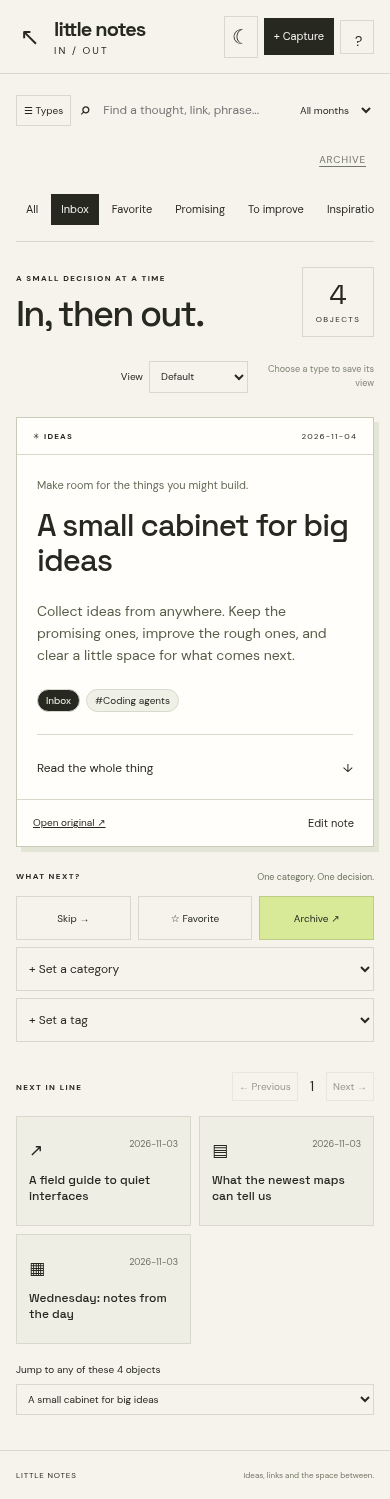
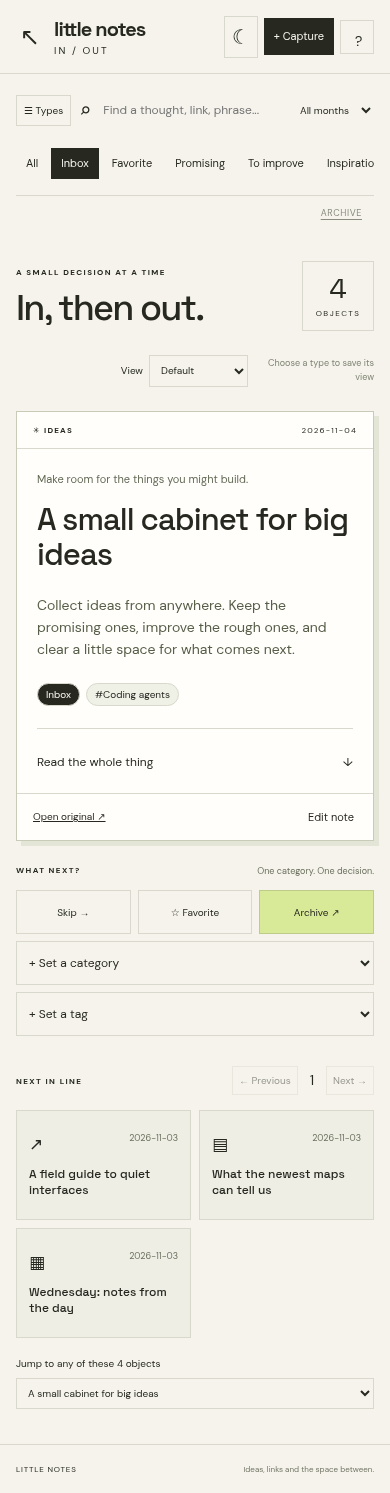
little notes: make Archive smaller and place it below the tabs

diff --git a/ui/src/apps/little-notes/little-notes.css b/ui/src/apps/little-notes/little-notes.css
@@ -1,5 +1,5 @@
 @import url('https://fonts.googleapis.com/css2?family=DM+Sans:wght@400;500;600;700&family=Space+Grotesk:wght@400;500;600;700&display=swap');
-.ln-app{--paper:#f5f3ec;--ink:#272921;--line:#d9d8cc;--green:#d8e997;min-height:100vh;background:var(--paper);color:var(--ink);font:14px/1.5 'DM Sans',sans-serif}.ln-app *{box-sizing:border-box}.ln-app button,.ln-app input,.ln-app select,.ln-app textarea{font:inherit;color:inherit}.ln-app button,.ln-app a,.ln-app select{touch-action:manipulation}.ln-app button{cursor:pointer;border:1px solid var(--line);background:transparent;border-radius:0;padding:10px 14px}.ln-app button:hover{background:#e8eadb}.ln-app button:disabled{cursor:wait;opacity:.45}.ln-app :focus-visible{outline:3px solid #55782b;outline-offset:3px}.ln-app a{color:inherit}.ln-header{height:92px;display:flex;align-items:center;gap:18px;border-bottom:1px solid var(--line);padding:0 36px}.ln-home{font-size:24px!important;border:0!important;padding:4px!important}.ln-brand{font:bold 25px 'Space Grotesk',sans-serif;letter-spacing:-1px}.ln-brand span{font:10px 'DM Sans',sans-serif;letter-spacing:2px;display:block;margin-top:2px}.ln-header-actions{display:flex;align-items:center;gap:16px;margin-left:auto}.ln-header-actions>button{background:var(--ink);color:var(--paper);border-color:var(--ink)}.ln-workspace{display:grid;grid-template-columns:210px minmax(0,1fr);max-width:1600px;margin:auto}.ln-sidebar{border-right:1px solid var(--line);padding:38px 22px;display:flex;flex-direction:column;gap:8px}.ln-eyebrow{font-size:10px;font-weight:700;letter-spacing:1.8px;margin:0 0 16px}.ln-sidebar>button{border:0;display:flex;align-items:center;gap:12px;text-align:left;padding:12px}.ln-sidebar>button.active{background:var(--green)}.ln-sidebar-foot{margin-top:150px;font-size:10px;line-height:1.7}.ln-sidebar-foot strong{font-family:'Space Grotesk',sans-serif;letter-spacing:.7px}.ln-sidebar-foot p{color:#6b6e60}.ln-main{min-width:0;padding:30px 44px 60px;max-width:1280px}.ln-toolbar{display:flex;align-items:center;gap:18px}.ln-search{display:flex;align-items:center;gap:12px;flex:1}.ln-search>span{font-size:26px}.ln-search input{border:0;background:transparent;width:100%;padding:10px 0;outline-offset:1px!important}.ln-toolbar select{background:transparent;border:0;max-width:160px;font-size:12px}.ln-archive-row{display:flex;justify-content:flex-end;margin:8px 0 -6px}.ln-archive-row button{border:0;font-size:10px;letter-spacing:.8px;text-transform:uppercase;color:#73766a;padding:6px 8px;min-height:44px;text-decoration:underline;text-underline-offset:3px}.ln-archive-row button.active{color:var(--ink);font-weight:700}.ln-theme-dark .ln-archive-row button{color:#b2bda7}.ln-theme-dark .ln-archive-row button.active{color:#e6e9df}.ln-tabs{display:flex;gap:3px;overflow:auto;padding:18px 0 20px;border-bottom:1px solid var(--line);scrollbar-width:thin}.ln-tabs button{white-space:nowrap;border:0;font-size:12px;padding:8px 12px}.ln-tabs button.active{background:var(--ink);color:var(--paper)}.ln-tabs select{max-width:140px;background:transparent;border:0;font-size:12px}.ln-heading{display:flex;justify-content:space-between;align-items:center;padding:32px 0 24px}.ln-heading h1{font:500 clamp(32px,4vw,55px)/1 'Space Grotesk',sans-serif;letter-spacing:-2.2px;margin:0;overflow-wrap:anywhere}.ln-heading .ln-eyebrow{margin-bottom:12px}.ln-count{font:36px/1 'Space Grotesk',sans-serif;border:1px solid var(--line);padding:15px;min-width:94px;text-align:center}.ln-count small{display:block;font:9px 'DM Sans',sans-serif;text-transform:uppercase;letter-spacing:1.5px;margin-top:6px}.ln-stage{background:#fffefa;border:1px solid #c9cbb9;box-shadow:5px 5px 0 #e3e5d7}.ln-card-top{display:flex;justify-content:space-between;gap:16px;padding:14px 26px;border-bottom:1px solid var(--line);font-size:10px;text-transform:uppercase;letter-spacing:1.2px}.ln-card-top>span:first-child{font-weight:700}.ln-card-body{padding:32px 38px 18px;max-width:900px}.ln-kicker{font:12px 'DM Sans',sans-serif;color:#646b57;margin:0 0 16px}.ln-card-body h2{font:500 clamp(29px,3.4vw,48px)/1.13 'Space Grotesk',sans-serif;letter-spacing:-1.7px;margin:0 0 22px;overflow-wrap:anywhere}.ln-summary{font-size:17px;line-height:1.6;max-width:740px;color:#575e49}.ln-card-tags{display:flex;gap:6px;flex-wrap:wrap;margin:22px 0}.ln-card-tags button{font-size:10px;padding:3px 8px;border-radius:20px;background:#eff1e7}
+.ln-app{--paper:#f5f3ec;--ink:#272921;--line:#d9d8cc;--green:#d8e997;min-height:100vh;background:var(--paper);color:var(--ink);font:14px/1.5 'DM Sans',sans-serif}.ln-app *{box-sizing:border-box}.ln-app button,.ln-app input,.ln-app select,.ln-app textarea{font:inherit;color:inherit}.ln-app button,.ln-app a,.ln-app select{touch-action:manipulation}.ln-app button{cursor:pointer;border:1px solid var(--line);background:transparent;border-radius:0;padding:10px 14px}.ln-app button:hover{background:#e8eadb}.ln-app button:disabled{cursor:wait;opacity:.45}.ln-app :focus-visible{outline:3px solid #55782b;outline-offset:3px}.ln-app a{color:inherit}.ln-header{height:92px;display:flex;align-items:center;gap:18px;border-bottom:1px solid var(--line);padding:0 36px}.ln-home{font-size:24px!important;border:0!important;padding:4px!important}.ln-brand{font:bold 25px 'Space Grotesk',sans-serif;letter-spacing:-1px}.ln-brand span{font:10px 'DM Sans',sans-serif;letter-spacing:2px;display:block;margin-top:2px}.ln-header-actions{display:flex;align-items:center;gap:16px;margin-left:auto}.ln-header-actions>button{background:var(--ink);color:var(--paper);border-color:var(--ink)}.ln-workspace{display:grid;grid-template-columns:210px minmax(0,1fr);max-width:1600px;margin:auto}.ln-sidebar{border-right:1px solid var(--line);padding:38px 22px;display:flex;flex-direction:column;gap:8px}.ln-eyebrow{font-size:10px;font-weight:700;letter-spacing:1.8px;margin:0 0 16px}.ln-sidebar>button{border:0;display:flex;align-items:center;gap:12px;text-align:left;padding:12px}.ln-sidebar>button.active{background:var(--green)}.ln-sidebar-foot{margin-top:150px;font-size:10px;line-height:1.7}.ln-sidebar-foot strong{font-family:'Space Grotesk',sans-serif;letter-spacing:.7px}.ln-sidebar-foot p{color:#6b6e60}.ln-main{min-width:0;padding:30px 44px 60px;max-width:1280px}.ln-toolbar{display:flex;align-items:center;gap:18px}.ln-search{display:flex;align-items:center;gap:12px;flex:1}.ln-search>span{font-size:26px}.ln-search input{border:0;background:transparent;width:100%;padding:10px 0;outline-offset:1px!important}.ln-toolbar select{background:transparent;border:0;max-width:160px;font-size:12px}.ln-archive-row{display:flex;justify-content:flex-end;margin:0}.ln-archive-row button{border:0;font-size:9px;letter-spacing:.6px;text-transform:uppercase;color:#8a8d7e;padding:6px 12px 10px;min-height:40px;text-decoration:underline;text-underline-offset:3px}.ln-archive-row button.active{color:var(--ink);font-weight:700}.ln-theme-dark .ln-archive-row button{color:#b2bda7}.ln-theme-dark .ln-archive-row button.active{color:#e6e9df}.ln-tabs{display:flex;gap:3px;overflow:auto;padding:18px 0 20px;border-bottom:1px solid var(--line);scrollbar-width:thin}.ln-tabs button{white-space:nowrap;border:0;font-size:12px;padding:8px 12px}.ln-tabs button.active{background:var(--ink);color:var(--paper)}.ln-tabs select{max-width:140px;background:transparent;border:0;font-size:12px}.ln-heading{display:flex;justify-content:space-between;align-items:center;padding:32px 0 24px}.ln-heading h1{font:500 clamp(32px,4vw,55px)/1 'Space Grotesk',sans-serif;letter-spacing:-2.2px;margin:0;overflow-wrap:anywhere}.ln-heading .ln-eyebrow{margin-bottom:12px}.ln-count{font:36px/1 'Space Grotesk',sans-serif;border:1px solid var(--line);padding:15px;min-width:94px;text-align:center}.ln-count small{display:block;font:9px 'DM Sans',sans-serif;text-transform:uppercase;letter-spacing:1.5px;margin-top:6px}.ln-stage{background:#fffefa;border:1px solid #c9cbb9;box-shadow:5px 5px 0 #e3e5d7}.ln-card-top{display:flex;justify-content:space-between;gap:16px;padding:14px 26px;border-bottom:1px solid var(--line);font-size:10px;text-transform:uppercase;letter-spacing:1.2px}.ln-card-top>span:first-child{font-weight:700}.ln-card-body{padding:32px 38px 18px;max-width:900px}.ln-kicker{font:12px 'DM Sans',sans-serif;color:#646b57;margin:0 0 16px}.ln-card-body h2{font:500 clamp(29px,3.4vw,48px)/1.13 'Space Grotesk',sans-serif;letter-spacing:-1.7px;margin:0 0 22px;overflow-wrap:anywhere}.ln-summary{font-size:17px;line-height:1.6;max-width:740px;color:#575e49}.ln-card-tags{display:flex;gap:6px;flex-wrap:wrap;margin:22px 0}.ln-card-tags button{font-size:10px;padding:3px 8px;border-radius:20px;background:#eff1e7}
 .ln-card-tags button.ln-chip-category{background:var(--ink);color:var(--paper)}.ln-card-body details{border-top:1px solid var(--line);padding-top:16px}.ln-card-body summary{cursor:pointer;font-size:12px;list-style:none;padding:8px 0}.ln-card-body summary span{float:right}.ln-markdown{overflow-wrap:anywhere;line-height:1.75;padding-top:18px;font-size:14px}.ln-markdown img{max-width:100%}.ln-markdown table{display:block;overflow:auto;border-collapse:collapse;font-size:12px}.ln-markdown th,.ln-markdown td{border:1px solid var(--line);padding:8px}.ln-markdown pre{overflow:auto;background:#eeeee6;padding:15px}.ln-image{display:block;max-width:100%;max-height:260px;object-fit:contain;margin:22px 0}.ln-card-footer{display:flex;justify-content:space-between;align-items:center;padding:14px 26px;border-top:1px solid var(--line);font-size:11px}.ln-card-footer button{font-size:11px;border:0;padding:3px}.ln-decision{display:flex;align-items:center;gap:8px;margin:28px 0 36px}.ln-decision>div{margin-right:auto}.ln-decision .ln-eyebrow{margin:0 0 3px}.ln-decision>div>span{font-size:11px;color:#6d725f}.ln-decision>button{font-size:12px;min-height:46px}.ln-decision .ln-archive{background:var(--green);border-color:#bdcd88}.ln-quick-tag select{width:100%;padding:12px 8px;background:transparent;border:1px solid var(--line);max-width:150px;font-size:11px;min-height:46px}.ln-queue-title{display:flex;justify-content:space-between;align-items:center;gap:10px}.ln-queue-title .ln-eyebrow{margin:0}.ln-queue-title>div{display:flex;align-items:center;gap:12px}.ln-queue-title button{font-size:10px;padding:6px}.ln-queue-cards{display:grid;grid-template-columns:repeat(3,minmax(0,1fr));gap:10px;margin-top:15px}.ln-queue-cards>button{text-align:left;min-height:115px;padding:15px;background:#eeeee5}.ln-queue-cards>button>span{display:flex;justify-content:space-between;font-size:17px;margin-bottom:10px}.ln-queue-cards small{font-size:9px;color:#6d725f}.ln-queue-cards strong{font:500 13px/1.3 'Space Grotesk',sans-serif;display:block;overflow-wrap:anywhere}.ln-jump{display:flex;gap:12px;align-items:center;font-size:10px;margin-top:18px}.ln-jump select{background:transparent;border:1px solid var(--line);padding:7px;max-width:55%}.ln-footer{border-top:1px solid var(--line);display:flex;justify-content:space-between;gap:16px;padding:20px 36px;font-size:9px;letter-spacing:1.4px}.ln-footer span{color:#737766;letter-spacing:0}.ln-empty{text-align:center;min-height:330px;border:1px dashed var(--line);display:flex;flex-direction:column;align-items:center;justify-content:center;padding:30px}.ln-empty>span{font-size:48px}.ln-empty h2{font:500 28px 'Space Grotesk',sans-serif}.ln-empty p{font-size:13px;max-width:320px;color:#6d725f}.ln-error{padding:14px;background:#f9e6df;border:1px solid #d9aaa0;overflow-wrap:anywhere}.ln-notice{font-size:12px;background:#e7edcf;padding:12px}.ln-filter-button,.ln-close{display:none!important}.ln-modal-backdrop{position:fixed;inset:0;background:#24291da8;display:flex;justify-content:center;align-items:center;z-index:100;padding:20px}.ln-modal{background:var(--paper);padding:28px;width:min(100%,620px);max-height:92dvh;overflow:auto;border:1px solid #777e61}.ln-modal-head{display:flex;align-items:center;justify-content:space-between;gap:15px}.ln-modal-head h2{font:500 28px 'Space Grotesk',sans-serif;margin:0 0 16px}.ln-modal-head button{border:0;font-size:24px}.ln-modal label{display:block;font-size:11px;font-weight:700;margin-bottom:14px}.ln-modal input,.ln-modal textarea,.ln-modal select{display:block;width:100%;padding:10px;margin-top:5px;border:1px solid #c5c9b8;background:#fffefa}.ln-save{width:100%;background:var(--ink)!important;color:var(--paper)!important}.ln-signin{padding:80px max(24px,8vw);min-height:70vh}.ln-signin h1{font:500 clamp(50px,8vw,100px)/1 'Space Grotesk',sans-serif;letter-spacing:-4px;margin:0 0 30px}.ln-signin p{max-width:400px}.ln-signin a{display:inline-block;margin-top:20px;padding:12px 20px;background:var(--green)}.sr-only{position:absolute;width:1px;height:1px;padding:0;margin:-1px;overflow:hidden;clip:rect(0,0,0,0);white-space:nowrap;border:0}
 @media(min-width:1500px){.ln-main{padding-left:70px;padding-right:70px}}@media(max-width:1000px){.ln-main{padding:25px}.ln-workspace{grid-template-columns:175px minmax(0,1fr)}.ln-sidebar{padding:30px 12px}.ln-decision{flex-wrap:wrap}.ln-decision>div{width:100%;margin-bottom:4px}.ln-decision>button{flex:1}.ln-card-body{padding:26px}.ln-quick-tag{flex:1}.ln-quick-tag select{max-width:none}.ln-queue-cards{grid-template-columns:repeat(2,minmax(0,1fr))}}@media(max-width:650px){.ln-header{height:74px;padding:0 16px;gap:10px}.ln-brand{font-size:22px}.ln-header-actions{gap:9px}.ln-header-actions>button{font-size:11px;padding:9px}.ln-workspace{display:block}.ln-sidebar{display:none}.ln-sidebar.is-open{display:flex;position:fixed;left:0;top:0;bottom:0;width:240px;background:var(--paper);z-index:110;box-shadow:0 0 0 100vw #2228;padding:20px}.ln-close{display:block!important}.ln-sidebar-foot{margin-top:auto}.ln-main{padding:17px 16px 35px}.ln-toolbar{gap:8px;flex-wrap:wrap}.ln-filter-button{display:block!important;font-size:10px!important;padding:7px!important}.ln-search{min-width:150px}.ln-search input{font-size:12px}.ln-search>span{font-size:20px}.ln-toolbar select{font-size:10px;max-width:140px;margin-left:auto}.ln-tabs{margin-top:7px;padding:12px 0 16px}.ln-tabs button{font-size:11px;padding:7px 10px}.ln-heading{padding:25px 0 20px;gap:12px}.ln-heading h1{font-size:36px;letter-spacing:-1.8px}.ln-eyebrow{font-size:8px;letter-spacing:1.4px}.ln-count{font-size:28px;min-width:72px;padding:12px}.ln-count small{font-size:8px}.ln-card-top{padding:12px 16px;font-size:8px}.ln-card-body{padding:23px 20px 14px}.ln-card-body h2{font-size:31px;letter-spacing:-1px}.ln-kicker{font-size:11px}.ln-summary{font-size:14px}.ln-card-footer{padding:12px 16px;font-size:10px}.ln-decision{gap:7px;margin:23px 0 30px}.ln-decision>div{display:flex;align-items:center;justify-content:space-between}.ln-decision>div>span{font-size:9px}.ln-decision>button{font-size:10px;padding:9px 7px;min-height:44px}.ln-quick-tag{flex-basis:100%;}.ln-quick-tag select{min-height:42px;font-size:12px}.ln-queue-cards{gap:8px}.ln-queue-cards>button{padding:12px;min-height:110px}.ln-queue-cards strong{font-size:12px}.ln-jump{display:block}.ln-jump select{display:block;max-width:100%;width:100%;margin-top:7px}.ln-footer{padding:18px 16px;font-size:8px;letter-spacing:.8px}.ln-footer span{font-size:8px}.ln-modal-backdrop{padding:10px}.ln-modal{padding:20px;max-height:96dvh}.ln-modal-head h2{font-size:25px}}
 

diff --git a/ui/src/apps/little-notes/LittleNotes.jsx b/ui/src/apps/little-notes/LittleNotes.jsx
@@ -100,7 +100,7 @@ export default function LittleNotes({ onHome }) {
   function filter(setter, value) { setRoute(old => ({ ...old, item: "" })); setter(value); setPage(1); setDrawer(false); setNotice(""); }
   const visibleCategories = taxonomy.categories.filter(c => !type || !c.types.length || c.types.includes(type));
   // Archive is a destination, not a triage lane: it stays available as a small
-  // control above the tabs so the tab row keeps room for real categories.
+  // control below the tabs so the tab row keeps room for real categories.
   const archiveCategory = visibleCategories.find(c => c.slug === "archive");
   const tabCategories = visibleCategories.filter(c => c.slug !== "archive");
   function chooseType(value) {
@@ -192,8 +192,8 @@ export default function LittleNotes({ onHome }) {
       {admin && taxonomy.can_manage_taxonomy ? <TaxonomyAdmin key={route.adminKind} initialKind={route.adminKind} onKindChange={value => setRoute(old => ({ ...old, adminKind: value }))} taxonomy={taxonomy} api={api} onCreated={() => setRefresh(x => x + 1)} onClose={() => setAdmin(false)} /> : <div className="ln-workspace">
         <aside className={`ln-sidebar ${drawer ? "is-open" : ""}`} aria-label="Object type filters"><button className="ln-close" onClick={() => setDrawer(false)}>Close filters ×</button><p className="ln-eyebrow">YOUR OBJECTS</p><button className={!type ? "active" : ""} onClick={() => chooseType("")}>◉ <span>Everything</span></button>{taxonomy.types.map(t => <button key={t.slug} className={type === t.slug ? "active" : ""} onClick={() => chooseType(t.slug)}>{t.icon || icons[t.slug] || "◇"}<span>{t.name}</span></button>)}<div className="ln-sidebar-foot"><strong>KEEP THE THOUGHT.<br />CLEAR THE INBOX.</strong><p>No folders to maintain.<br />Just types, dates and categories.</p></div>{taxonomy.can_manage_taxonomy && <button className="ln-manage-button" onClick={() => { setDrawer(false); setAdmin(true); }}><span aria-hidden="true">⚙</span> Manage</button>}</aside>
         <main className="ln-main"><div className="ln-toolbar"><button className="ln-filter-button" onClick={() => setDrawer(true)}>☰ Types</button><label className="ln-search"><span>⌕</span><input type="search" placeholder="Find a thought, link, phrase..." value={q} onChange={e => filter(setQ, e.target.value)} aria-label="Search content" /></label><select value={month} onChange={e => filter(setMonth, e.target.value)} aria-label="Browse by saved month">{view !== "calendar" && <option value="">All months</option>}{month && !taxonomy.months.some(m => m.month === month) && <option value={month}>{month}</option>}{taxonomy.months.map(m => <option key={m.month} value={m.month}>{m.month} · {m.count}</option>)}</select></div>
-          {archiveCategory && <div className="ln-archive-row"><button className={category === "archive" ? "active" : ""} aria-pressed={category === "archive"} onClick={() => filter(setCategory, "archive")}>Archive</button></div>}
           <nav className="ln-tabs" aria-label="Category filters"><button className={!category ? "active" : ""} onClick={() => filter(setCategory, "")}>All</button>{tabCategories.map(c => <button key={c.slug} className={category === c.slug ? "active" : ""} onClick={() => filter(setCategory, c.slug)}>{c.name}</button>)}<select aria-label="Topic tag filter" value={tag} onChange={e => filter(setTag, e.target.value)}><option value="">More tags</option>{taxonomy.tags.map(t => <option key={t.slug} value={t.slug}>{t.name}</option>)}</select></nav>
+          {archiveCategory && <div className="ln-archive-row"><button className={category === "archive" ? "active" : ""} aria-pressed={category === "archive"} onClick={() => filter(setCategory, "archive")}>Archive</button></div>}
           <div className="ln-heading"><div><p className="ln-eyebrow">A SMALL DECISION AT A TIME</p><h1>{category === "inbox" ? "In, then out." : category ? visibleCategories.find(c => c.slug === category)?.name || category : tag ? `#${tag}` : "Everything, kept."}</h1></div><span className="ln-count">{total} <small>objects</small></span></div>
           <ViewPicker value={view} onChange={changeView} disabled={savingView} saving={savingView} saved={viewSaved} typeName={type ? taxonomy.types.find(t => t.slug === type)?.name || type : ""} />
           {error && <div className="ln-error" role="alert">{error} <button onClick={() => setRefresh(x => x + 1)}>Reload</button></div>}{notice && <p className="ln-notice" role="status">{notice}</p>}

diff --git a/ui/src/apps/little-notes/README.md b/ui/src/apps/little-notes/README.md
@@ -6,7 +6,7 @@ a next-up queue, object-type sidebar (drawer on phone), horizontally scrollable
 category tabs that follow the selected object type (Promising/To improve only on
 Ideas, Inspiration only on Bookmarks), topic tags behind "More tags", month
 selector, search and 30-object pagination. Archive is deliberately less
-prominent: a small control above the tabs instead of a tab, so real categories
+prominent: a small control below the tabs instead of a tab, so real categories
 keep the room. Any object on the page can
 be selected with the jump control, not only the six preview cards.
 
@@ -33,7 +33,7 @@ Checks: `npm test`, `npm run build`; `node curator-visual-check.mjs` uses Chrome
 `/usr/bin/google-chrome` and mocked nonprivate records, writes screenshots to
 `/tmp/little-notes-screenshots` or CURATOR_SCREENSHOTS. It exercises 320/390/1280,
 no-overflow, type-linked category tabs (Ideas vs Bookmarks), Archive as the
-small above-tabs control (never a tab), type drawer,
+small below-tabs control (never a tab), type drawer,
 capture/Escape, search/empty/reset, archive and skip/archive/restore triage
 advance, and categorizing out of the Inbox.
 This is not a claim of actual Android Firefox device testing.
